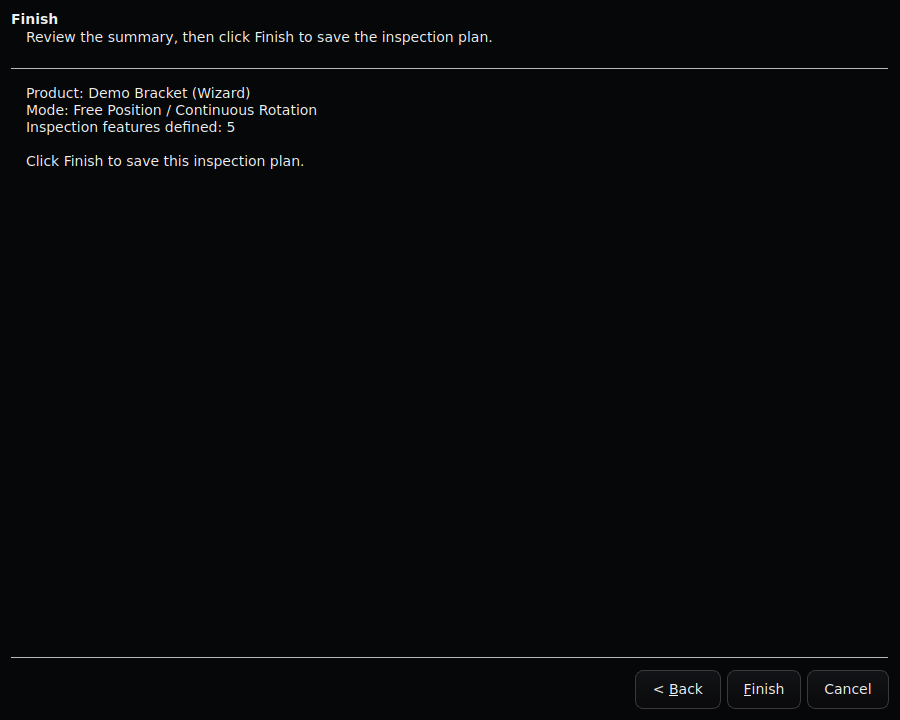
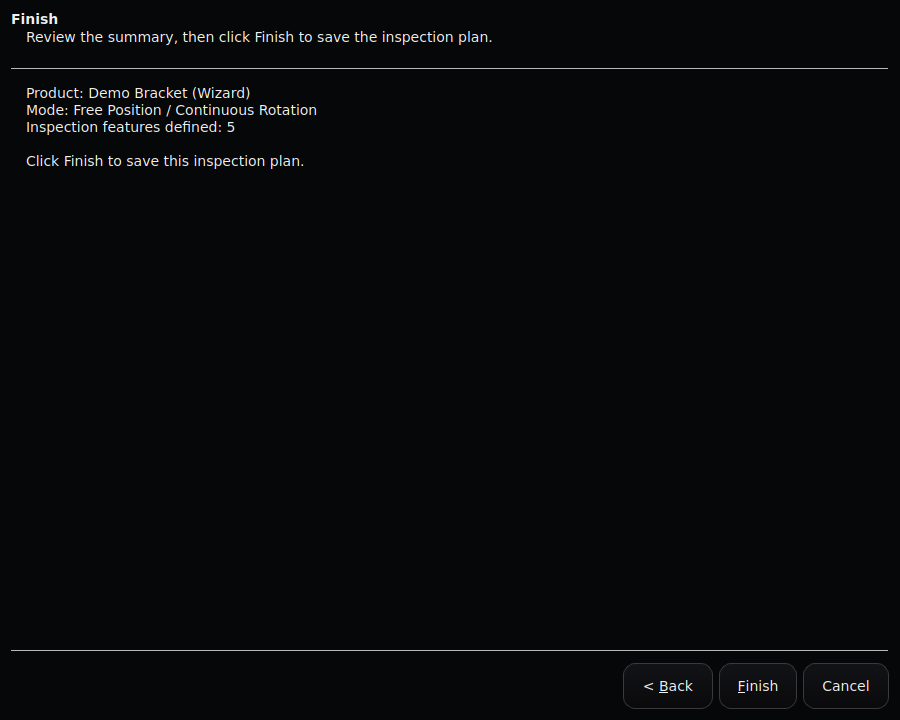
Apple/iOS-inspired UI polish: filled primary buttons, pill toggles, segmented tabs
Bigger touch targets, softer rounded corners on cards/buttons/inputs,
a true filled-blue primary action button, iOS-style pill checkboxes,
a segmented-control tab bar, and row hover states. Result colors
(green/red/yellow) and the dark theme are untouched.

Changed region(s): [[0.7156, 0.9167, 0.9644, 0.9778]]

diff --git a/vision/ui/styles.py b/vision/ui/styles.py
@@ -61,14 +61,14 @@ QFrame#panelCard {
     background: qlineargradient(x1:0, y1:0, x2:0, y2:1, stop:0 #0d0e11, stop:1 #090a0c);
     border: 1px solid #2a2a2a;
     border-top: 1px solid #343b46;
-    border-radius: 12px;
+    border-radius: 18px;
 }
 
 QFrame#panelCardAccent {
     background: qlineargradient(x1:0, y1:0, x2:0, y2:1, stop:0 #0d0f14, stop:1 #090a0c);
     border: 1px solid #3a4150;
     border-top: 1px solid #5b9dff;
-    border-radius: 12px;
+    border-radius: 18px;
 }
 
 QLabel#panelTitle {
@@ -284,9 +284,10 @@ QPushButton {
     background: qlineargradient(x1:0, y1:0, x2:0, y2:1, stop:0 #121316, stop:1 #0a0a0c);
     color: #f0f0f0;
     border: 1px solid #3a3a3a;
-    padding: 10px 16px;
-    border-radius: 8px;
+    padding: 12px 18px;
+    border-radius: 12px;
     font-size: 14px;
+    min-height: 20px;
 }
 
 QPushButton:hover {
@@ -304,26 +305,35 @@ QPushButton:disabled {
 }
 
 QPushButton#primaryActionButton {
-    background: qlineargradient(x1:0, y1:0, x2:0, y2:1, stop:0 #161922, stop:1 #0d0e12);
-    border: 1px solid #4a5568;
-    border-radius: 10px;
+    background: qlineargradient(x1:0, y1:0, x2:0, y2:1, stop:0 #6aa9ff, stop:1 #3d7eea);
+    border: none;
+    border-radius: 14px;
+    color: #ffffff;
     font-size: 16px;
-    font-weight: 600;
+    font-weight: 700;
     padding: 18px 10px;
     min-height: 28px;
 }
 
 QPushButton#primaryActionButton:hover {
-    background: qlineargradient(x1:0, y1:0, x2:0, y2:1, stop:0 #1b2030, stop:1 #11141c);
-    border: 1px solid #5b9dff;
+    background: qlineargradient(x1:0, y1:0, x2:0, y2:1, stop:0 #7bb6ff, stop:1 #4d8cf2);
+}
+
+QPushButton#primaryActionButton:pressed {
+    background: qlineargradient(x1:0, y1:0, x2:0, y2:1, stop:0 #3d7eea, stop:1 #2f6bd4);
+}
+
+QPushButton#primaryActionButton:disabled {
+    background: #232938;
+    color: #6a7280;
 }
 
 QPushButton#secondaryActionButton {
     background-color: #0a0a0a;
     border: 1px solid #3a3a3a;
-    border-radius: 8px;
+    border-radius: 12px;
     font-size: 13px;
-    padding: 8px 12px;
+    padding: 10px 14px;
     text-align: left;
 }
 
@@ -366,9 +376,9 @@ QHeaderView::section {
 QLineEdit, QComboBox, QSpinBox, QDoubleSpinBox {
     background-color: #0a0a0a;
     border: 1px solid #3a3a3a;
-    border-radius: 6px;
+    border-radius: 10px;
     color: #f5f5f5;
-    padding: 6px 8px;
+    padding: 8px 10px;
     font-size: 14px;
 }
 
@@ -386,14 +396,22 @@ QListWidget {
 }
 
 QListWidget::item {
-    padding: 8px 6px;
-    border-radius: 4px;
+    padding: 10px 8px;
+    border-radius: 8px;
+}
+
+QListWidget::item:hover {
+    background-color: #11151c;
 }
 
 QListWidget::item:selected {
     background-color: #14202e;
     color: #ffffff;
     border: 1px solid #5b9dff;
+}
+
+QTableWidget::item:hover {
+    background-color: #11151c;
 }
 
 QTableWidget::item:selected {
@@ -412,7 +430,7 @@ QTabBar::tab {
     background-color: transparent;
     color: #8a8a8a;
     border: none;
-    padding: 10px 24px;
+    padding: 12px 26px;
     margin-right: 4px;
     font-size: 13px;
     font-weight: 600;
@@ -424,22 +442,38 @@ QTabBar::tab:hover {
 }
 
 QTabBar::tab:selected {
-    background-color: #161a20;
+    background-color: #182338;
     color: #ffffff;
-    border-radius: 8px;
-    border-bottom: 2px solid #5b9dff;
+    border-radius: 12px;
 }
 
 QCheckBox {
     color: #f0f0f0;
-    spacing: 8px;
+    spacing: 10px;
     font-size: 14px;
+}
+
+QCheckBox::indicator {
+    width: 38px;
+    height: 22px;
+    border-radius: 11px;
+    background-color: #2a2f3a;
+    border: 1px solid #3a3f4a;
+}
+
+QCheckBox::indicator:checked {
+    background-color: #5b9dff;
+    border: 1px solid #5b9dff;
+}
+
+QCheckBox::indicator:unchecked:hover {
+    border: 1px solid #5b9dff;
 }
 
 QGroupBox {
     background-color: #0a0a0a;
     border: 1px solid #2a2a2a;
-    border-radius: 12px;
+    border-radius: 16px;
     margin-top: 12px;
     padding-top: 18px;
     color: #9a9a9a;
